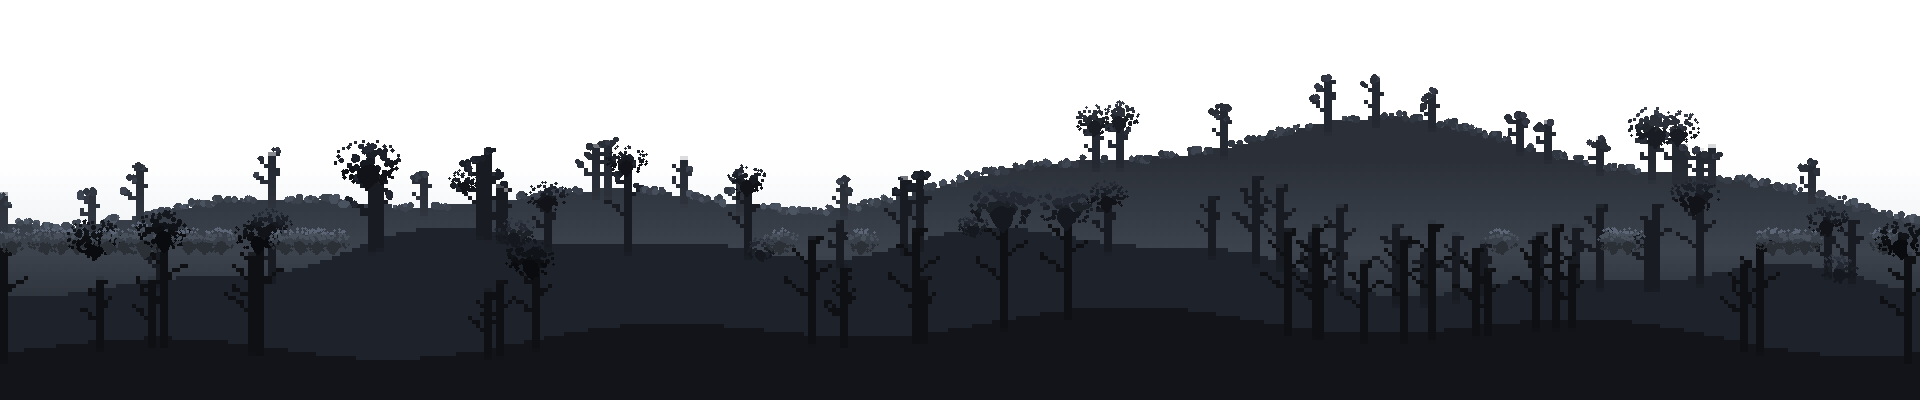
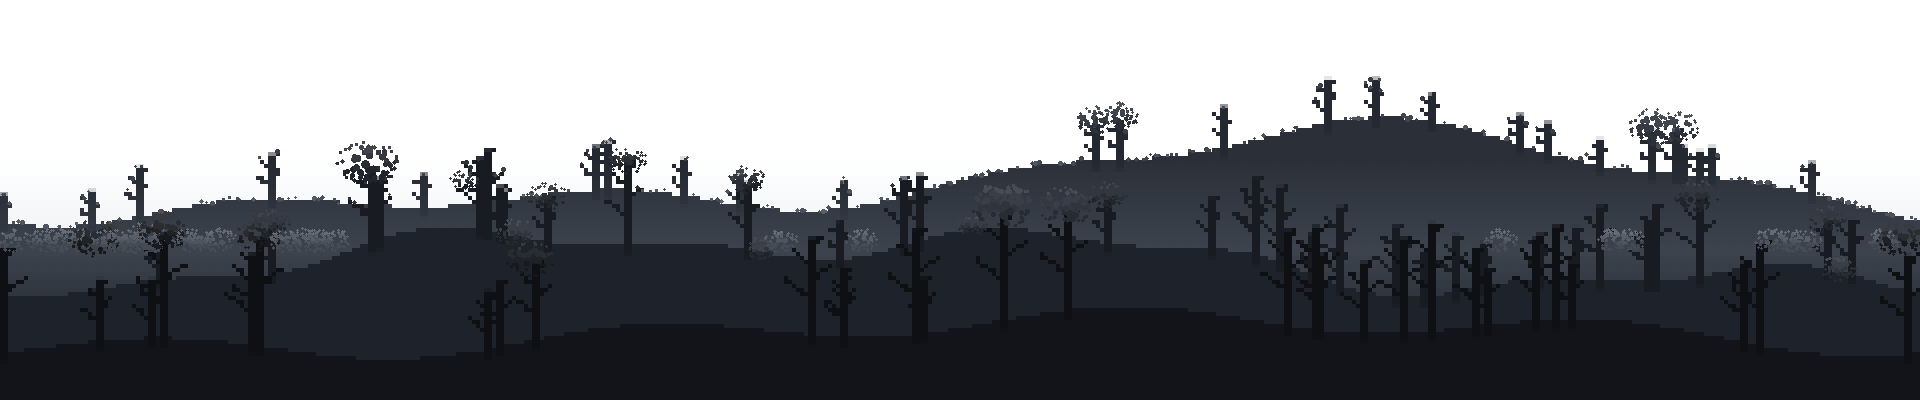
원경이 시커먼 벽으로 보이던 것 — 잎을 밝히고 푸른 안개를 살린다
우거져야 할 숲이 하늘을 가린 검은 덩어리로 보였고, 그 위로 원경 한 겹이
따로 떠 있어 하늘 그림이 덧그려진 것처럼 읽혔다. 원인이 둘이었다.

■ 갓을 줄기와 같은 값으로 그렸다

  잎 색을 줄기 색의 **곱하기**로 뽑았다(×1.2). 그런데 원본 원경은 거의 검다 —
  가까운 언덕이 (18,20,25) 다. 여기에 ×1.2 를 하면 (21,24,30) 이라 언덕과
  구분이 안 가는 실루엣이 나온다. 잎을 아무리 많이 얹어도 화면에서는 언덕과
  갓이 한 덩어리로 뭉쳐 시커먼 벽이 됐다.

  이제 **더하기**로 올린다(lift). 갓 안쪽 +9, 몸통 +18, 빛 받는 면 +28,
  꼭대기 +41. 어두운 바탕에서도 잎이 확실히 떠오른다.

■ 초록으로 눕힐 때 파랑을 너무 깎았다

  원본 원경은 **푸른 안개**로 거리를 만든다. 가까운 언덕 (18,20,25) 는 파랑이
  가장 높아 하늘색에 가깝고, 그래서 멀리 있어 보인다. 파랑을 0.47 로 눌렀더니
  (12,29,12) 가 되어 하늘과의 대비가 확 올라갔고, 멀리 있던 언덕이 눈앞의
  시커먼 초록 벽이 됐다. 0.78 로 되돌려 안개를 남긴다.

■ 능선 띠가 능선을 덮고 있었다

  띠 밀도 0.92 · 덩이 둘 · 반지름 2.5~5.5 는 능선을 두껍게 크러스트로 덮어
  하늘을 먹었다. 0.52 · 덩이 하나 · 1.6~3.4 로 낮춘다 — 띠는 능선을 덮는 게
  아니라 **윤곽을 부스스하게 만드는** 것이다.

이제 1장은 안개 낀 초록 산비탈에 나무 갓이 능선을 뚫고 솟은 그림이고,
8장은 앙상한 회청색 줄기만 남은 그림이다.

Claude-Session: https://claude.ai/code/session_015bTXkb4q3SzK7wZ8JdbtYP

diff --git a/game/index.html b/game/index.html
@@ -4,7 +4,7 @@
 <meta charset="utf-8">
 <meta name="viewport" content="width=device-width,initial-scale=1">
 <title>Ashfall Chronicles — 별이 잠든 땅</title>
-<link rel="stylesheet" href="css/style.css?v=194">
+<link rel="stylesheet" href="css/style.css?v=195">
 </head>
 <body>
 
@@ -448,19 +448,19 @@
   </div>
 </div>
 
-<script src="js/util.js?v=194"></script>
-<script src="js/data.js?v=194"></script>
-<script src="js/world.js?v=194"></script>
-<script src="js/tileart.js?v=194"></script>
-<script src="js/itemart.js?v=194"></script>
-<script src="js/titlebg.js?v=194"></script>
+<script src="js/util.js?v=195"></script>
+<script src="js/data.js?v=195"></script>
+<script src="js/world.js?v=195"></script>
+<script src="js/tileart.js?v=195"></script>
+<script src="js/itemart.js?v=195"></script>
+<script src="js/titlebg.js?v=195"></script>
 <!-- 매니페스트는 sprites.js 보다 먼저. file:// 에서 fetch 가 막히므로 <script> 로 넣는다 -->
-<script src="assets/sprites-manifest.js?v=194"></script>
-<script src="assets/sprites.js?v=194"></script>
-<script src="js/entity.js?v=194"></script>
-<script src="js/factory.js?v=194"></script>
-<script src="js/ui.js?v=194"></script>
-<script src="js/music.js?v=194"></script>
-<script src="js/game.js?v=194"></script>
+<script src="assets/sprites-manifest.js?v=195"></script>
+<script src="assets/sprites.js?v=195"></script>
+<script src="js/entity.js?v=195"></script>
+<script src="js/factory.js?v=195"></script>
+<script src="js/ui.js?v=195"></script>
+<script src="js/music.js?v=195"></script>
+<script src="js/game.js?v=195"></script>
 </body>
 </html>

diff --git a/game/js/game.js b/game/js/game.js
@@ -4071,10 +4071,15 @@ const G = {
     const d = g.getImageData(0, 0, cv.width, cv.height), px = d.data;
     for (let i = 0; i < px.length; i += 4) {
       if (!px[i + 3]) continue;
-      const l = px[i] * 0.30 + px[i + 1] * 0.59 + px[i + 2] * 0.11;   // 밝기는 그대로 두고
-      px[i] = px[i] * af + (l * 0.52 + 2) * (1 - af);                 // 색만 숲으로 되돌린다
-      px[i + 1] = px[i + 1] * af + (l * 1.14 + 6) * (1 - af);
-      px[i + 2] = px[i + 2] * af + (l * 0.47 + 3) * (1 - af);
+      /* 밝기는 그대로 두고 색만 숲으로 되돌린다. 파랑을 너무 깎으면 안 된다 —
+         원본 원경은 **푸른 안개**로 거리를 만든다(가까운 언덕이 (18,20,25)로
+         하늘색에 가깝다). 파랑을 0.47 로 눌렀더니 그 언덕이 (12,29,12) 이 되어
+         하늘과 대비가 확 올라갔고, 멀리 있던 언덕이 눈앞의 시커먼 초록 벽이
+         됐다. 파랑을 남겨야 멀리 있는 것이 멀리 있어 보인다. */
+      const l = px[i] * 0.30 + px[i + 1] * 0.59 + px[i + 2] * 0.11;
+      px[i] = px[i] * af + (l * 0.60 + 4) * (1 - af);
+      px[i + 1] = px[i + 1] * af + (l * 1.10 + 8) * (1 - af);
+      px[i + 2] = px[i + 2] * af + (l * 0.78 + 9) * (1 - af);
     }
     g.putImageData(d, 0, 0);
     this._fbg = { key, cv, f: af };

diff --git a/tools/mkforestbg.py b/tools/mkforestbg.py
@@ -50,6 +50,16 @@ def shade(c, k):
     return tuple(max(0, min(255, int(v * k))) for v in c[:3])
 
 
+def lift(c, n):
+    """밝기를 n 만큼 **더한다**(곱하지 않는다).
+
+    원본 원경은 거의 검다 — 가까운 언덕이 (18,20,25) 다. 여기에 곱하기로 밝기를
+    주면(×1.2 → (21,24,30)) 언덕과 구분이 안 가는 실루엣이 나오고, 잎을 아무리
+    많이 얹어도 화면에서는 시커먼 덩어리 하나로 보인다. 실제로 그렇게 나왔다.
+    더하기라야 어두운 바탕에서도 잎이 확실히 떠오른다."""
+    return tuple(max(0, min(255, v + n)) for v in c[:3])
+
+
 def find_trees(px, W, H):
     """원본에서 줄기를 찾아 (가운데 x, 꼭대기 y, 폭, 색) 로 돌려준다.
 
@@ -110,10 +120,12 @@ def canopy(im, px, cx, ty, wide, col, rng, scale, clumps, ragged):
 
     # 값 네 단계. 두 단계로만 그렸더니 통짜 덩어리가 되어 나무가 아니라
     # 먹구름으로 보였다 — 잎은 안이 비어 보일 만큼 명암이 갈려야 한다.
-    dark = shade(col, 0.72)        # 갓 안쪽 그늘
-    mid = shade(col, 0.95)
-    leaf = shade(col, 1.20)        # 빛 받는 면
-    lite = shade(col, 1.52)        # 꼭대기 한 겹
+    # 모두 줄기보다 **밝다**. 갓이 줄기·언덕과 같은 값이면 실루엣이라 잎으로
+    # 안 읽히고, 화면에서는 하늘을 가린 시커먼 벽이 된다.
+    dark = lift(col, 9)            # 갓 안쪽 그늘 — 그래도 언덕보다는 밝다
+    mid = lift(col, 18)
+    leaf = lift(col, 28)           # 빛 받는 면
+    lite = lift(col, 41)           # 꼭대기 한 겹
 
     def blob(bx, by, r, c):
         rr = int(r) + 1
@@ -184,11 +196,11 @@ def ridge(im, px, sky, rng, dens, size):
         # 묶여 늘 참이 되고, 그러면 이 띠가 한 점도 안 그려진다
         if ty is None or ty < 2 or rng.random() >= dens:
             continue
-        leaf, lite = shade(col, 1.16), shade(col, 1.42)
-        for _ in range(2):
-            r = rng.uniform(2.5, 5.5) * size
-            bx = x + rng.uniform(-3, 3)
-            by = ty - rng.uniform(-1, 4) * size
+        leaf, lite = lift(col, 22), lift(col, 35)
+        for _ in range(1):
+            r = rng.uniform(1.6, 3.4) * size
+            bx = x + rng.uniform(-2, 2)
+            by = ty - rng.uniform(0, 3) * size
             c = lite if rng.random() < 0.3 else leaf
             rr = int(r) + 1
             for dy in range(-rr, rr + 1):
@@ -202,9 +214,9 @@ def ridge(im, px, sky, rng, dens, size):
 
 STAGES = [
     # 이름,        갓 크기, 덩이 수, 헤짐, 남은 나무, 능선 띠 밀도, 띠 크기
-    ('lush', 1.00, 34, 0.15, 1.00, 0.92, 1.00),
-    ('mid', 0.72, 18, 0.40, 0.88, 0.48, 0.72),
-    ('thin', 0.44, 9, 0.65, 0.55, 0.14, 0.50),
+    ('lush', 0.92, 30, 0.20, 1.00, 0.52, 1.00),
+    ('mid', 0.68, 16, 0.42, 0.88, 0.26, 0.74),
+    ('thin', 0.42, 8, 0.66, 0.55, 0.08, 0.52),
 ]
 
 
